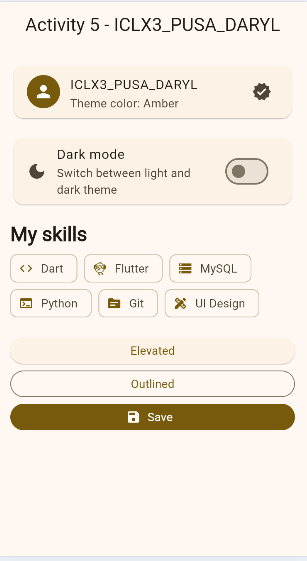
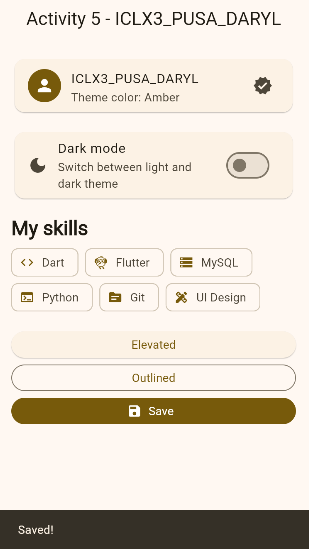
Update Flutter lab activities and screenshots

diff --git a/lib/main.dart b/lib/main.dart
@@ -1,3 +1,3 @@
-import 'activity2_water_tracker.dart' as activity;
+import 'activity5_theme_components.dart' as activity;
 
 void main() => activity.main();
